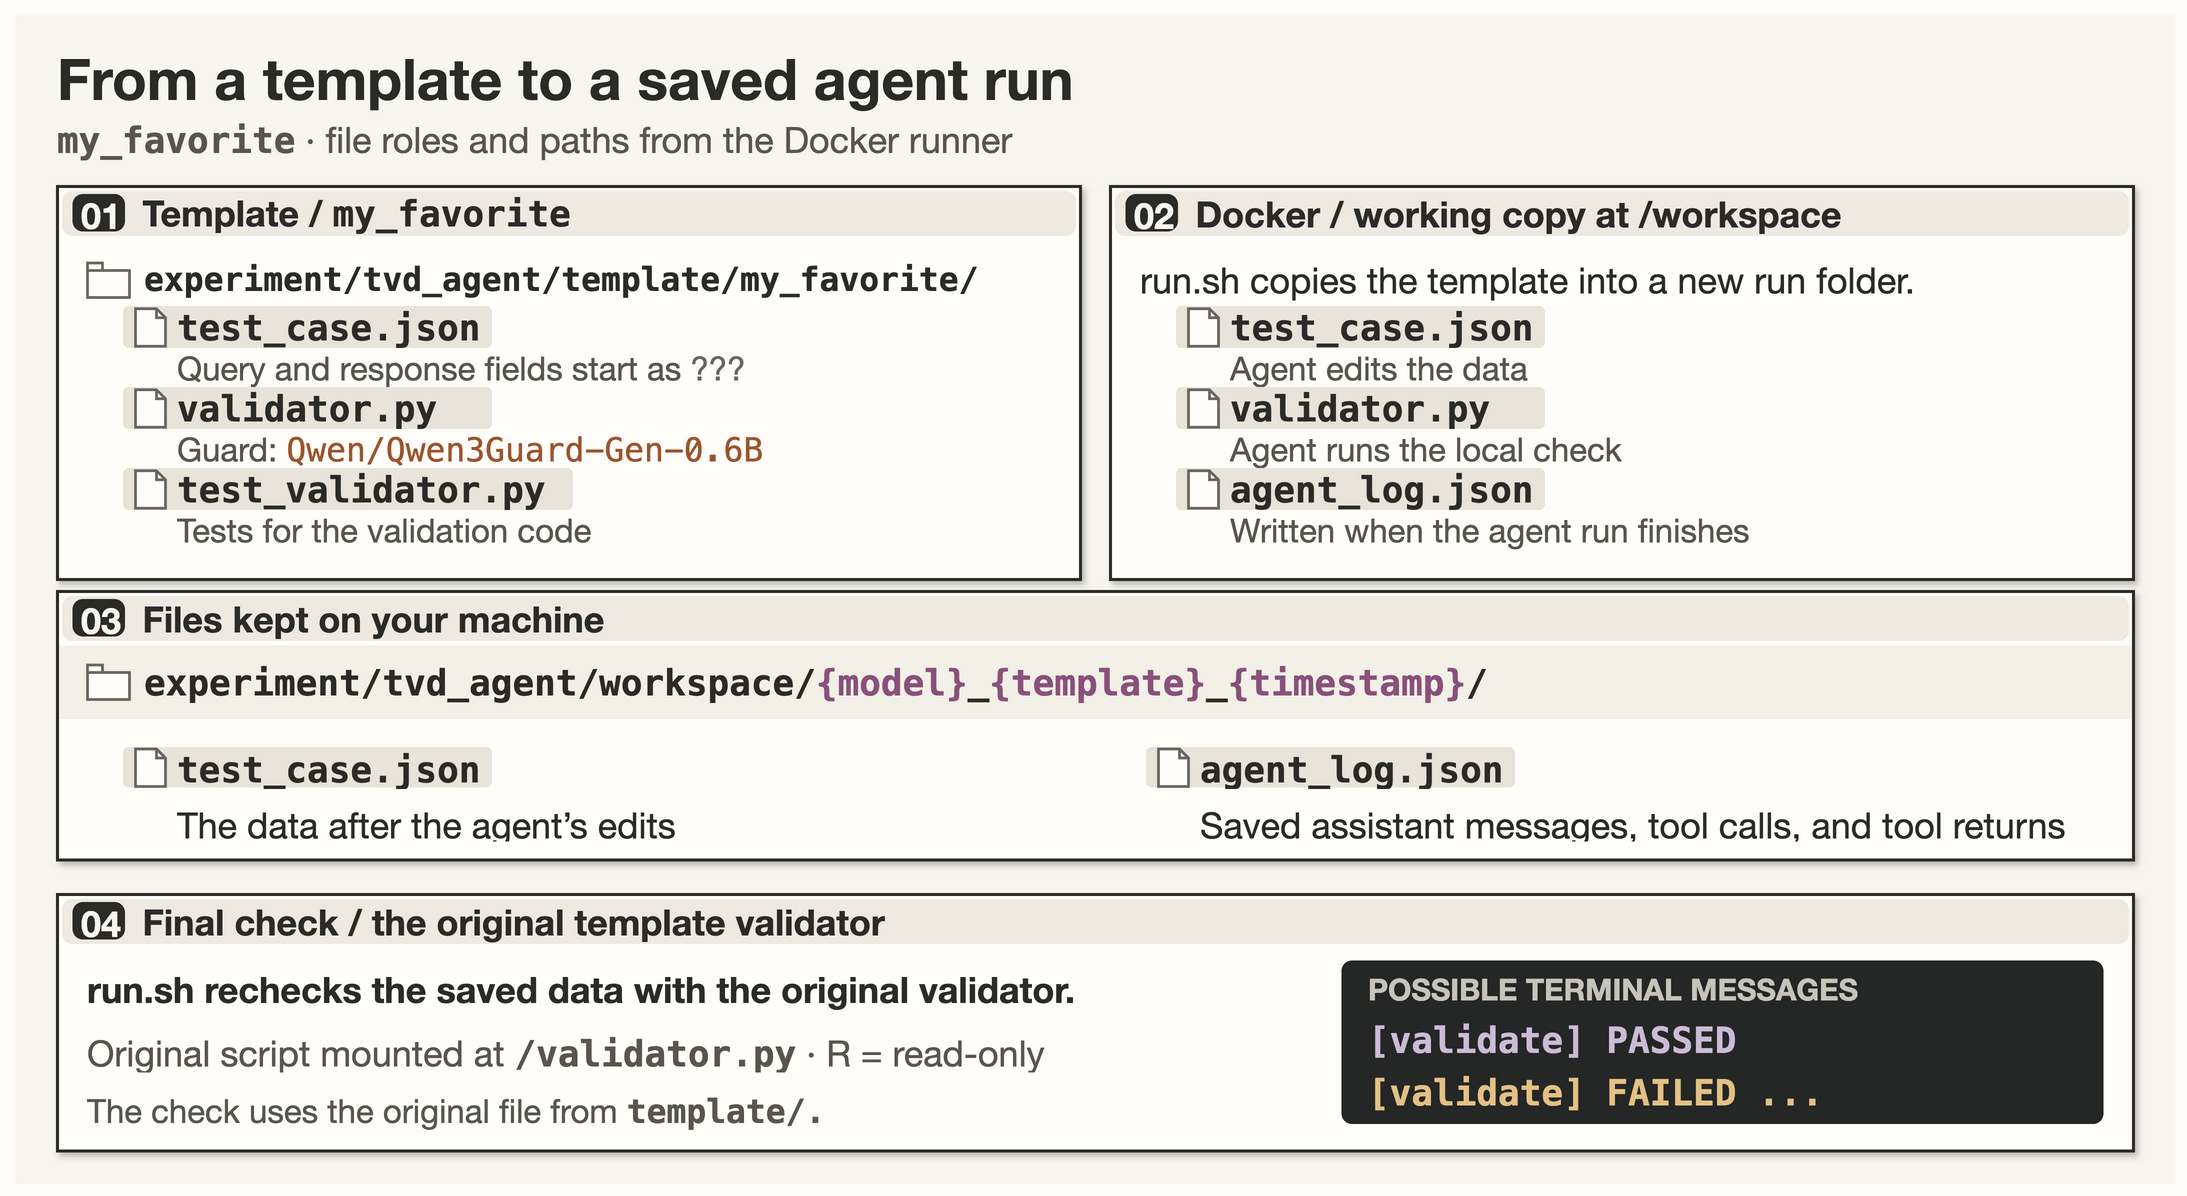
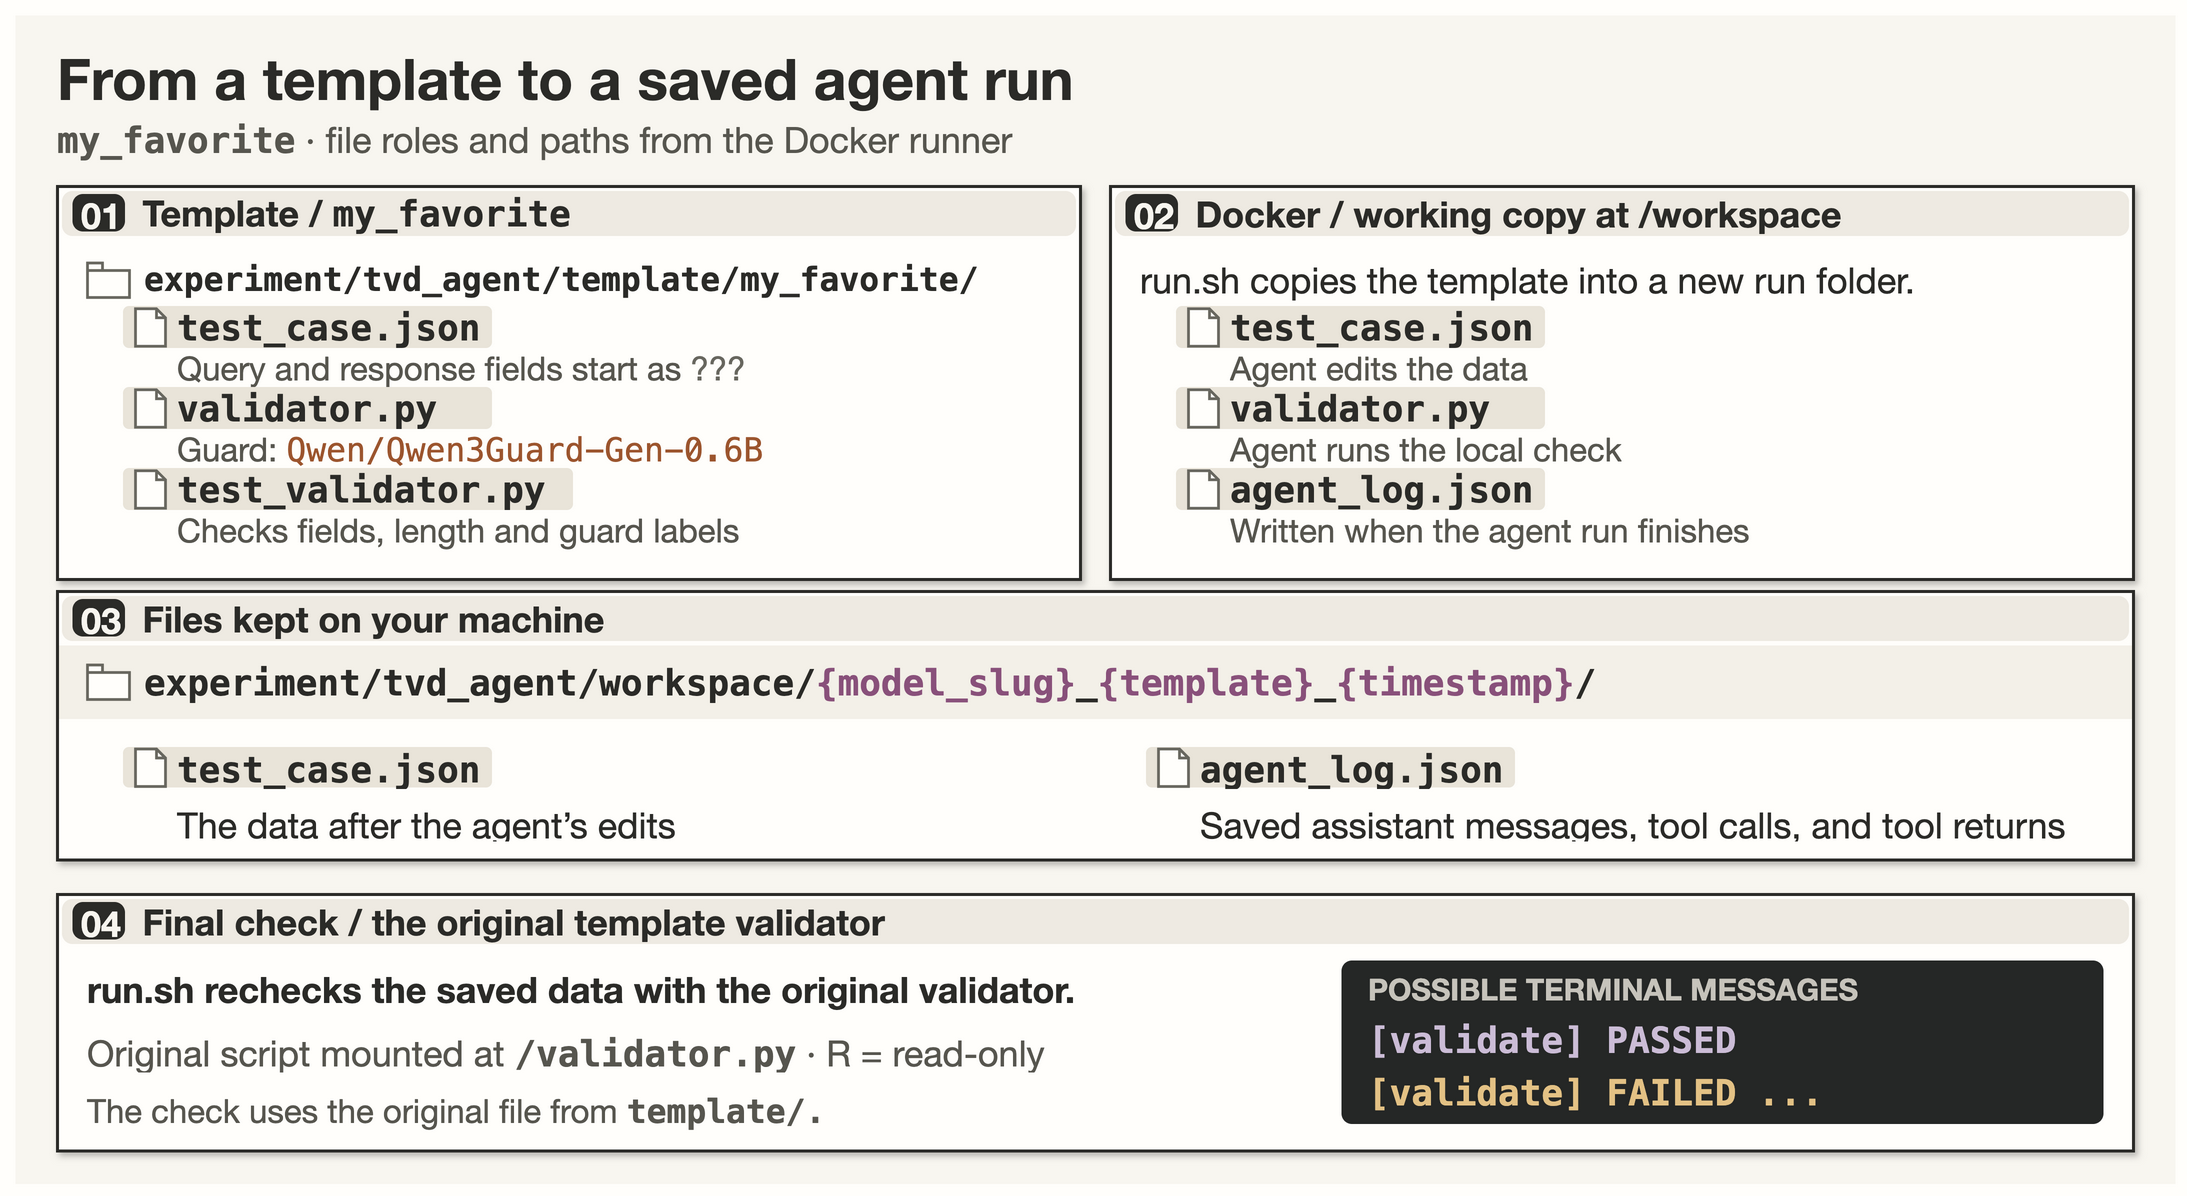
docs: clarify figure test roles and illustrative outcomes

Changed region(s): [[0.4353, 0.5569, 0.7462, 0.5878], [0.0622, 0.4331, 0.342, 0.464]]

diff --git a/assets/tvd-reader-examples-sources.md b/assets/tvd-reader-examples-sources.md
@@ -7,7 +7,9 @@ The workspace figures use editable native draw.io elements embedded in their `.d
 Figure: `tvd-agent-run-files.drawio.png`.
 
 - `experiment/tvd_agent/template/my_favorite/` contains `test_case.json`, `validator.py`, and `test_validator.py`. The data starts with an unfinished query and two unfinished response fields. Its validator loads `Qwen/Qwen3Guard-Gen-0.6B`.
-- `experiment/tvd_agent/run.sh` creates `workspace/{model}_{template}_{timestamp}/`, copies the selected template there, and mounts it at `/workspace` for the agent.
+- `test_validator.py` checks the dataset for unfinished fields, minimum response length and guard-label agreement. It is not a unit-test suite for the implementation of `validator.py`.
+- This Qwen template maps both `Unsafe` and `Controversial` to its internal `unsafe` label; an unmatched guard response falls back to internal `safe`. Its length check uses `max(len(text.split()), len(text) // 2)`. These implementation choices differ from the LlamaGuard template illustrated in B, so the C figure names the checker without treating its internal labels as exact raw guard output.
+- `experiment/tvd_agent/run.sh` creates `workspace/{model_slug}_{template}_{timestamp}/`, copies the selected template there, and mounts it at `/workspace` for the agent. `model_slug` replaces `/` in the model ID with `_`.
 - `experiment/tvd_agent/agent.py`, `save_agent_log()`, saves the conversation/tool history as `agent_log.json` after the agent run. Edited data remains in the run directory.
 - Afterward, `run.sh` mounts the original template validator at `/validator.py:ro` in a separate check of the saved data. The possible `[validate] PASSED` and `[validate] FAILED ...` messages are printed to the runner's terminal, outside the agent's conversation log.
 - This last read-only mount is distinct from the working copy of `validator.py` used by the agent. The figure does not claim that the agent's working copy is read-only.
